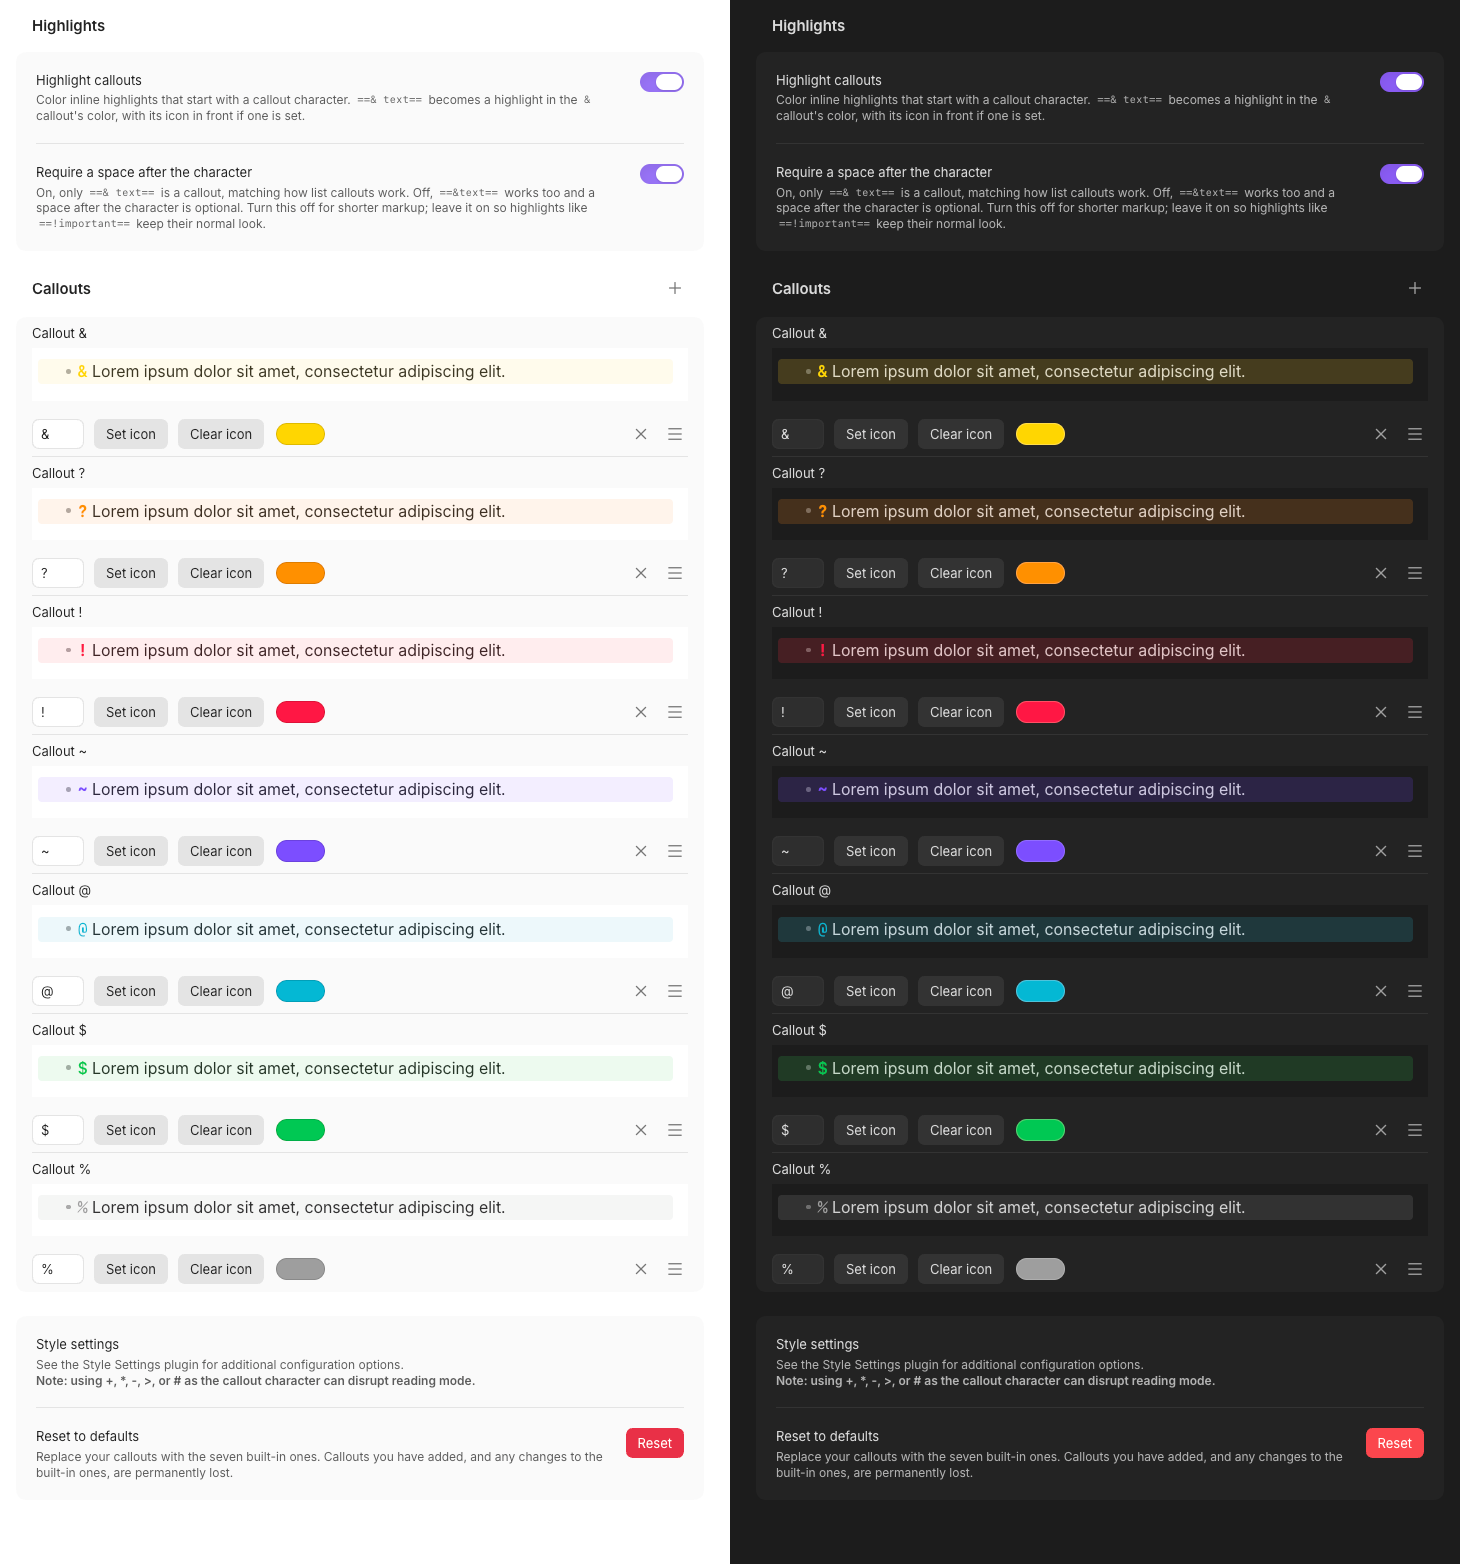
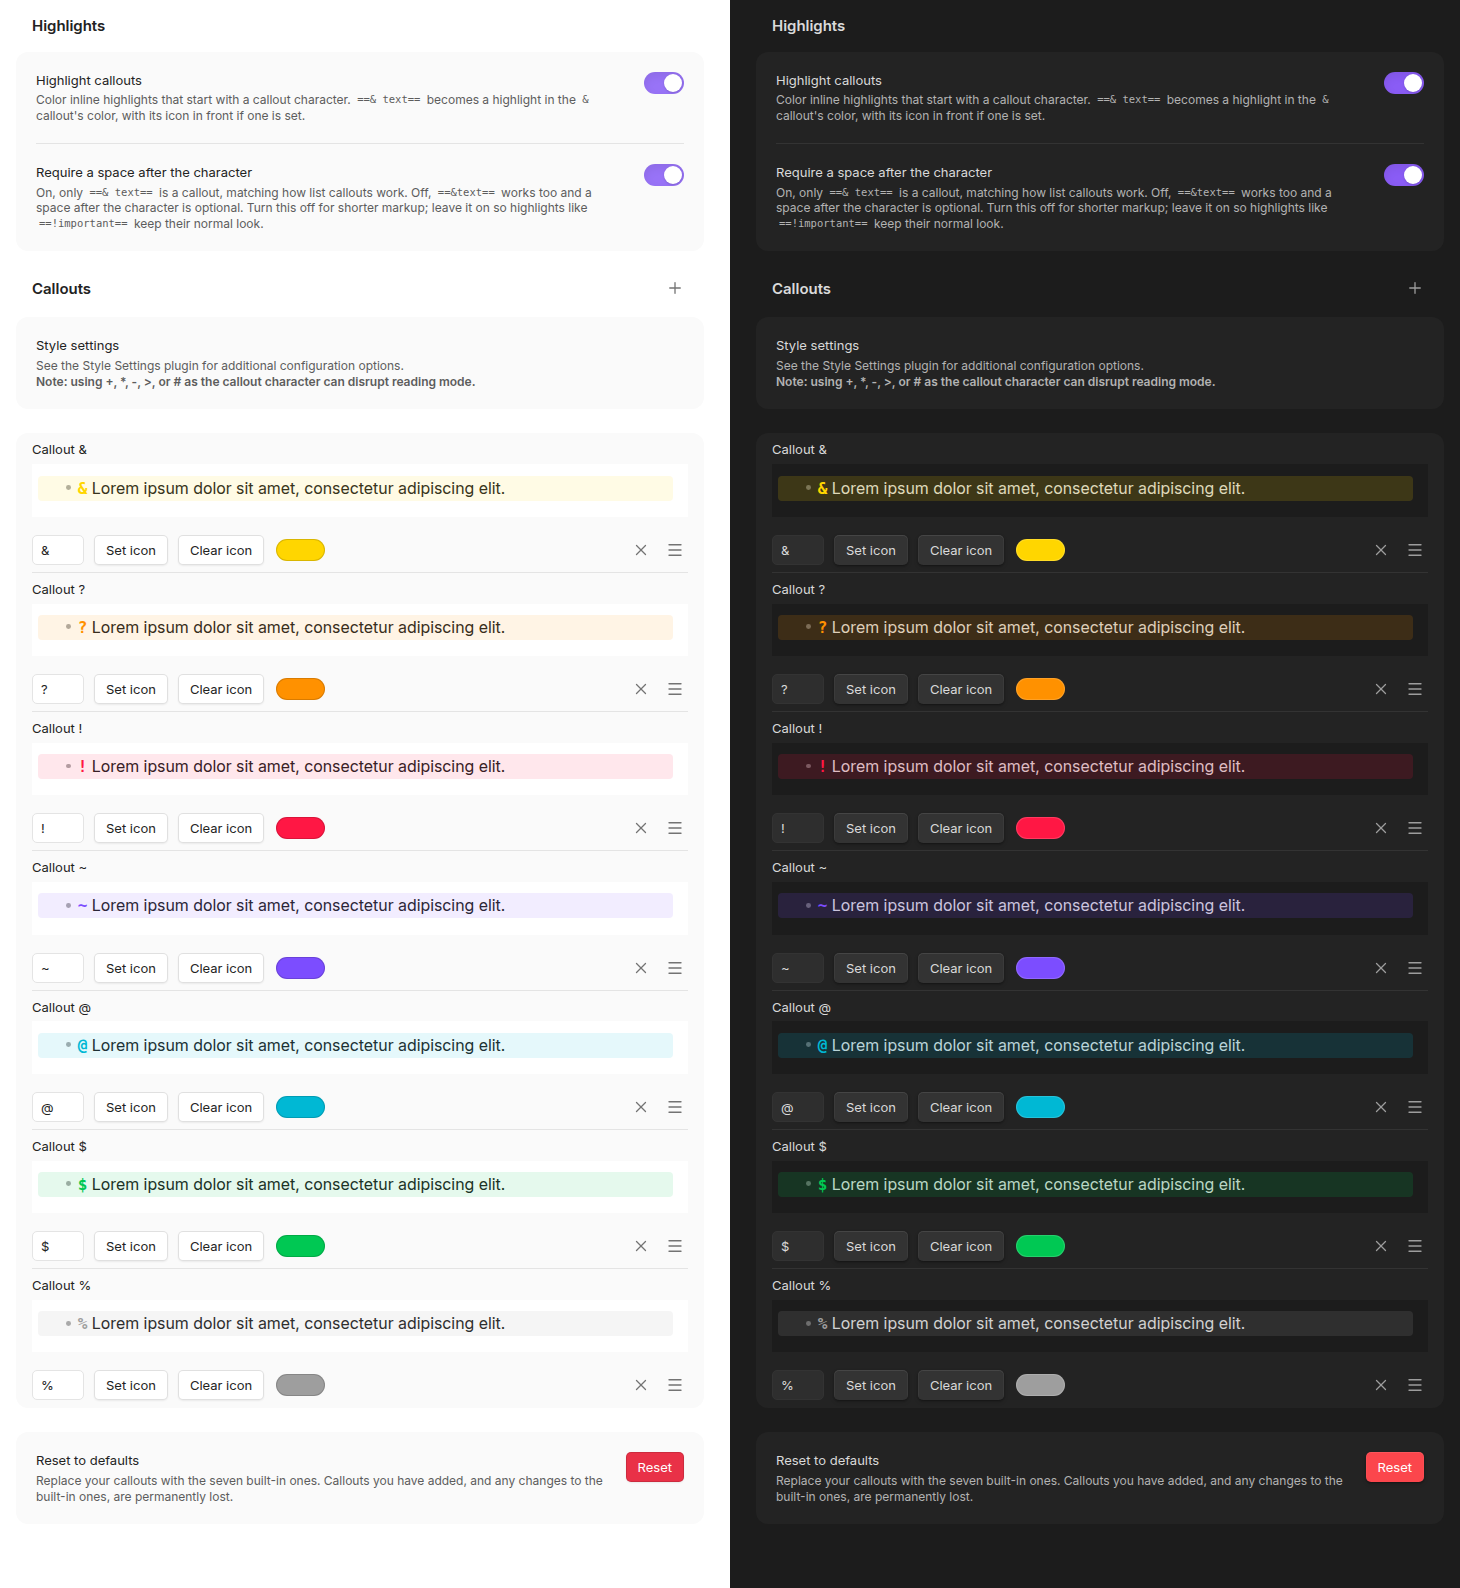
Put the style note directly under the Callouts heading, with the add button on the heading

diff --git a/src/settingsTab.ts b/src/settingsTab.ts
@@ -2,6 +2,7 @@ import {
   App,
   ButtonComponent,
   ColorComponent,
+  ExtraButtonComponent,
   Modal,
   Notice,
   Platform,
@@ -582,34 +583,42 @@ export class ListCalloutSettingTab extends PluginSettingTab {
         ],
       },
       {
+        // The list below can hold only its rows, so the aside about the
+        // callouts' padding, intensity and unsafe characters lives in a group
+        // of its own that carries the heading -- and the add button, which
+        // would otherwise sit on an empty header row of the headingless list.
+        type: 'group',
+        heading: 'Callouts',
+        extraButtons: [
+          (btn: ExtraButtonComponent) =>
+            btn
+              .setIcon('plus')
+              .setTooltip('Add callout')
+              .onClick(() => {
+                new NewCalloutModal(this.plugin, (callout) =>
+                  this.addCallout(callout)
+                ).open();
+              }),
+        ],
+        items: [
+          {
+            name: 'Style settings',
+            desc: this.styleSettingsDesc(),
+          },
+        ],
+      },
+      {
         // One list rather than a built-in group and a custom one: every
         // callout can now be deleted and reordered, and the order is what the
         // next/previous commands step through, so a custom callout has to be
         // able to sit between two built-ins.
         type: 'list',
-        heading: 'Callouts',
         emptyState:
           'No callouts. Reset to defaults to bring the built-in ones back.',
         items: settings.map((callout, i) => this.calloutDefinition(callout, i)),
         onDelete: (index: number) => this.deleteCallout(index),
         onReorder: (oldIndex: number, newIndex: number) =>
           this.reorderCallout(oldIndex, newIndex),
-        addItem: {
-          name: 'Add callout',
-          action: () => {
-            new NewCalloutModal(this.plugin, (callout) =>
-              this.addCallout(callout)
-            ).open();
-          },
-        },
-      },
-      // Below the list rather than at the top of the tab: the padding and
-      // intensity it points to, and the characters it warns about, are the
-      // callouts' concern. A list definition holds only its rows, so this is
-      // the nearest an aside can sit to them.
-      {
-        name: 'Style settings',
-        desc: this.styleSettingsDesc(),
       },
       {
         name: 'Reset to defaults',
